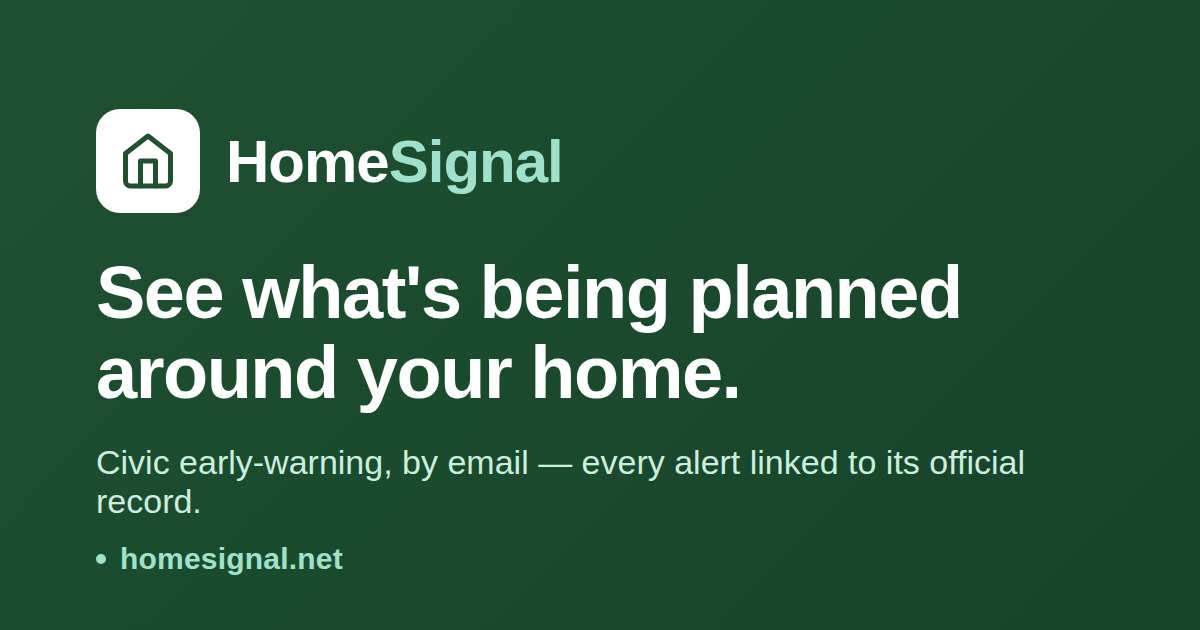
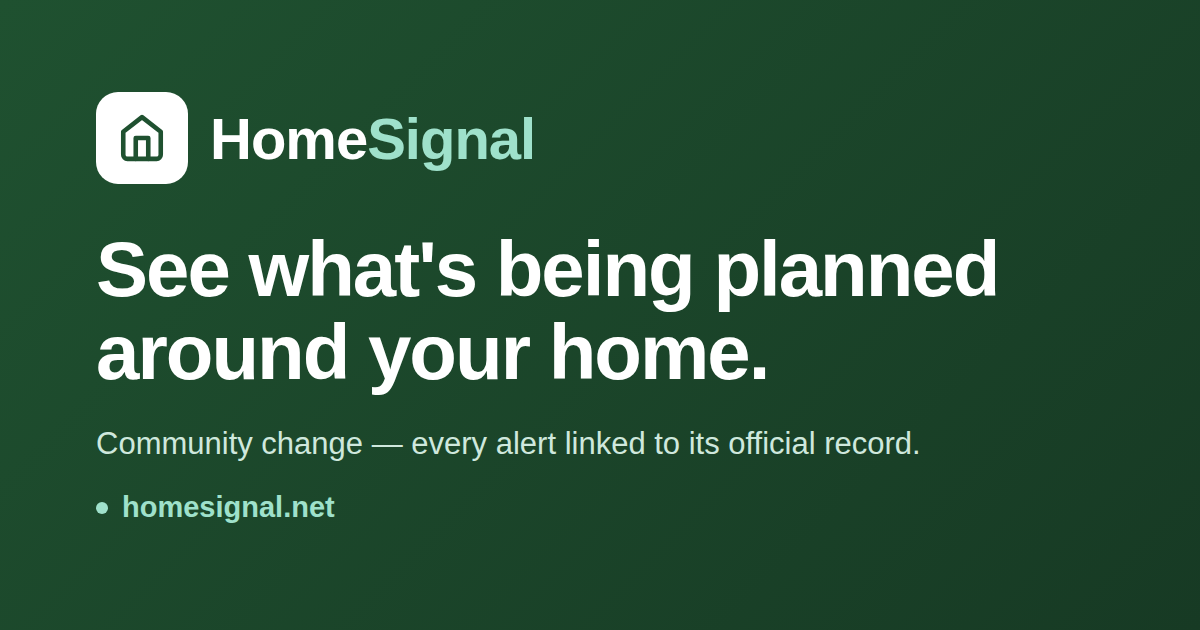
Rebrand tagline: "Civic early-warning" -> "Community change" (#110)
Replaces the tagline everywhere it appears on the site: footer taglines
(all pages incl. the legacy box-elder / eagle-mountain launch pages),
the index hero eyebrow, and all <meta>/OG/Twitter titles + descriptions
(index, 404, terms). Also regenerates og-default.png, which had the old
tagline baked in, with the new wording.

Claude-Session: https://claude.ai/code/session_01WuSSfAkptUE3pUuq5PX332

diff --git a/404.html b/404.html
@@ -5,20 +5,20 @@
 <meta name="viewport" content="width=device-width, initial-scale=1.0">
 <meta http-equiv="Content-Security-Policy" content="default-src 'self'; base-uri 'self'; object-src 'none'; img-src 'self' data:; font-src 'self'; style-src 'self' 'unsafe-inline'; script-src 'self' 'unsafe-inline'; form-action 'self'">
 <title>HomeSignal — Page not found</title>
-<meta name="description" content="The page you were looking for isn't here. Return to HomeSignal — civic early-warning, by email.">
+<meta name="description" content="The page you were looking for isn't here. Return to HomeSignal — community change.">
 <link rel="icon" href="/favicon.svg" type="image/svg+xml">
 <meta name="robots" content="noindex">
 <meta property="og:type" content="website">
 <meta property="og:url" content="https://homesignal.net/404.html">
 <meta property="og:title" content="HomeSignal — Page not found">
-<meta property="og:description" content="The page you were looking for isn't here. Return to HomeSignal — civic early-warning, by email.">
+<meta property="og:description" content="The page you were looking for isn't here. Return to HomeSignal — community change.">
 <meta name="twitter:card" content="summary_large_image">
 <meta property="og:image" content="https://homesignal.net/og-default.png">
 <meta property="og:image:width" content="1200">
 <meta property="og:image:height" content="630">
 <meta name="twitter:image" content="https://homesignal.net/og-default.png">
 <meta name="twitter:title" content="HomeSignal — Page not found">
-<meta name="twitter:description" content="The page you were looking for isn't here. Return to HomeSignal — civic early-warning, by email.">
+<meta name="twitter:description" content="The page you were looking for isn't here. Return to HomeSignal — community change.">
 <link rel="canonical" href="https://homesignal.net/404.html">
 <style>
 :root{
@@ -114,7 +114,7 @@ footer{max-width:1200px;width:100%;margin:0 auto;padding:32px 24px;border-top:0.
       <div class="logo-icon" style="width:28px;height:28px;"><svg viewBox="0 0 24 24" aria-hidden="true" style="width:15px;height:15px;"><path d="M3 9l9-7 9 7v11a2 2 0 0 1-2 2H5a2 2 0 0 1-2-2z"/><polyline points="9,22 9,12 15,12 15,22"/></svg></div>
       <div class="logo-text" style="font-size:14px;">Home<span>Signal</span></div>
     </a>
-    <div class="footer-tagline">Civic early-warning, by email.</div>
+    <div class="footer-tagline">Community change.</div>
     <div class="footer-tagline" style="margin-top:6px">© 2026 HomeSignal, Inc. · Neutral · sourced · non-partisan</div>
     <div class="footer-tagline" style="margin-top:6px">Follow HomeSignal: <a href="https://bsky.app/profile/homesignal-tracker.bsky.social" aria-label="Bluesky" style="display:inline-flex;width:24px;height:24px;border-radius:50%;background:#1185fe;align-items:center;justify-content:center;vertical-align:middle;margin-left:6px"><svg viewBox="0 0 24 24" width="14" height="14" fill="#fff" aria-hidden="true"><path d="M5.5 4.3c2.4 1.8 5 5.5 6 7.5 1-2 3.6-5.7 6-7.5 1.7-1.3 4.5-2.3 4.5.9 0 .6-.4 5.2-.6 6-.7 2.6-3.3 3.2-5.7 2.8 4.1.7 5.2 3 2.9 5.3-4.3 4.4-6.2-1.1-6.7-2.5-.1-.3-.2-.5-.2-.3 0-.2-.1.1-.2 2.5-.5 1.4-2.4 6.9-6.7 2.5-2.3-2.3-1.2-4.6 2.9-5.3-2.4.4-5-.2-5.7-2.8C1.4 10.4 1 5.8 1 5.2c0-3.2 2.8-2.2 4.5-.9z"/></svg></a><a href="https://www.reddit.com/user/HomeSignalnet" aria-label="Reddit" style="display:inline-flex;width:24px;height:24px;border-radius:50%;background:#ff4500;align-items:center;justify-content:center;vertical-align:middle;margin-left:6px"><svg viewBox="0 0 24 24" width="14" height="14" fill="#fff" aria-hidden="true"><path d="M22 12a2.04 2.04 0 0 0-3.46-1.46 10 10 0 0 0-5.27-1.67l.9-4.23 2.94.62a1.5 1.5 0 1 0 .16-1l-3.28-.7a.5.5 0 0 0-.59.38l-1 4.7a10 10 0 0 0-5.34 1.66 2.04 2.04 0 1 0-2.2 3.36c-.03.21-.05.43-.05.65 0 3.31 3.58 6 8 6s8-2.69 8-6c0-.22-.02-.44-.05-.65A2.04 2.04 0 0 0 22 12zM7 13.5a1.5 1.5 0 1 1 3 0 1.5 1.5 0 0 1-3 0zm8.1 4.2c-.86.86-2.6.93-3.1.93-.5 0-2.24-.07-3.1-.93a.34.34 0 0 1 .48-.48c.54.54 1.7.73 2.62.73.92 0 2.08-.19 2.62-.73a.34.34 0 0 1 .48.48zM15.5 15a1.5 1.5 0 1 1 0-3 1.5 1.5 0 0 1 0 3z"/></svg></a></div>
   </div>

diff --git a/index.html b/index.html
@@ -9,14 +9,14 @@
 <link rel="icon" href="favicon.svg" type="image/svg+xml">
 <meta property="og:type" content="website">
 <meta property="og:url" content="https://homesignal.net/">
-<meta property="og:title" content="HomeSignal — Civic early-warning, by email">
+<meta property="og:title" content="HomeSignal — Community change">
 <meta property="og:description" content="HomeSignal turns hearings, permits, public records, and local news into one daily email — so homeowners hear what's coming in time to speak up.">
 <meta name="twitter:card" content="summary_large_image">
 <meta property="og:image" content="https://homesignal.net/og-default.png">
 <meta property="og:image:width" content="1200">
 <meta property="og:image:height" content="630">
 <meta name="twitter:image" content="https://homesignal.net/og-default.png">
-<meta name="twitter:title" content="HomeSignal — Civic early-warning, by email">
+<meta name="twitter:title" content="HomeSignal — Community change">
 <meta name="twitter:description" content="HomeSignal turns hearings, permits, public records, and local news into one daily email — so homeowners hear what's coming in time to speak up.">
 <link rel="canonical" href="https://homesignal.net/">
 <style>
@@ -137,7 +137,7 @@ footer .foot-links a:hover{color:var(--tx-primary)}
 
 <section class="wrap hero">
   <div>
-    <span class="eyebrow"><svg class="ic" viewBox="0 0 24 24" aria-hidden="true"><rect x="3" y="5" width="18" height="14" rx="2"/><path d="M3 7l9 6 9-6"/></svg>Civic early-warning, by email</span>
+    <span class="eyebrow"><svg class="ic" viewBox="0 0 24 24" aria-hidden="true"><rect x="3" y="5" width="18" height="14" rx="2"/><path d="M3 7l9 6 9-6"/></svg>Community change</span>
     <h1>See what's being planned around your home — before the decisions are made.</h1>
     <p style="font-size:17px;color:var(--tx-secondary);margin:0 0 26px;max-width:500px">HomeSignal turns hearings, permits, public records, and local news into one daily email, so homeowners hear what's coming in time to speak up.</p>
     <div data-zip-form>
@@ -279,7 +279,7 @@ footer .foot-links a:hover{color:var(--tx-primary)}
         <div class="logo-icon" style="width:28px;height:28px"><svg viewBox="0 0 24 24" aria-hidden="true" style="width:15px;height:15px"><path d="M3 9l9-7 9 7v11a2 2 0 01-2 2H5a2 2 0 01-2-2z"/><polyline points="9,22 9,12 15,12 15,22"/></svg></div>
         <div class="logo-text" style="font-size:14px">Home<span>Signal</span></div>
       </a>
-      <div class="meta" style="font-size:12.5px;margin-top:6px">Civic early-warning, by email.</div>
+      <div class="meta" style="font-size:12.5px;margin-top:6px">Community change.</div>
       <div class="meta" style="font-size:12.5px;margin-top:4px">© 2026 HomeSignal, Inc. · Neutral · sourced · non-partisan</div>
       <div class="meta" style="font-size:12.5px;margin-top:4px">Follow HomeSignal: <a href="https://bsky.app/profile/homesignal-tracker.bsky.social" aria-label="Bluesky" style="display:inline-flex;width:24px;height:24px;border-radius:50%;background:#1185fe;align-items:center;justify-content:center;vertical-align:middle;margin-left:6px"><svg viewBox="0 0 24 24" width="14" height="14" fill="#fff" aria-hidden="true"><path d="M5.5 4.3c2.4 1.8 5 5.5 6 7.5 1-2 3.6-5.7 6-7.5 1.7-1.3 4.5-2.3 4.5.9 0 .6-.4 5.2-.6 6-.7 2.6-3.3 3.2-5.7 2.8 4.1.7 5.2 3 2.9 5.3-4.3 4.4-6.2-1.1-6.7-2.5-.1-.3-.2-.5-.2-.3 0-.2-.1.1-.2 2.5-.5 1.4-2.4 6.9-6.7 2.5-2.3-2.3-1.2-4.6 2.9-5.3-2.4.4-5-.2-5.7-2.8C1.4 10.4 1 5.8 1 5.2c0-3.2 2.8-2.2 4.5-.9z"/></svg></a><a href="https://www.reddit.com/user/HomeSignalnet" aria-label="Reddit" style="display:inline-flex;width:24px;height:24px;border-radius:50%;background:#ff4500;align-items:center;justify-content:center;vertical-align:middle;margin-left:6px"><svg viewBox="0 0 24 24" width="14" height="14" fill="#fff" aria-hidden="true"><path d="M22 12a2.04 2.04 0 0 0-3.46-1.46 10 10 0 0 0-5.27-1.67l.9-4.23 2.94.62a1.5 1.5 0 1 0 .16-1l-3.28-.7a.5.5 0 0 0-.59.38l-1 4.7a10 10 0 0 0-5.34 1.66 2.04 2.04 0 1 0-2.2 3.36c-.03.21-.05.43-.05.65 0 3.31 3.58 6 8 6s8-2.69 8-6c0-.22-.02-.44-.05-.65A2.04 2.04 0 0 0 22 12zM7 13.5a1.5 1.5 0 1 1 3 0 1.5 1.5 0 0 1-3 0zm8.1 4.2c-.86.86-2.6.93-3.1.93-.5 0-2.24-.07-3.1-.93a.34.34 0 0 1 .48-.48c.54.54 1.7.73 2.62.73.92 0 2.08-.19 2.62-.73a.34.34 0 0 1 .48.48zM15.5 15a1.5 1.5 0 1 1 0-3 1.5 1.5 0 0 1 0 3z"/></svg></a></div>
     </div>

diff --git a/terms.html b/terms.html
@@ -5,19 +5,19 @@
 <meta name="viewport" content="width=device-width, initial-scale=1.0">
 <meta http-equiv="Content-Security-Policy" content="default-src 'self'; base-uri 'self'; object-src 'none'; img-src 'self' data:; font-src 'self'; style-src 'self' 'unsafe-inline'; script-src 'self' 'unsafe-inline' https://cdn.jsdelivr.net; connect-src 'self' https://qwnnmljucajnexpxdgxr.supabase.co wss://qwnnmljucajnexpxdgxr.supabase.co; form-action 'self'">
 <title>HomeSignal — Terms of use</title>
-<meta name="description" content="The terms of use for HomeSignal's civic early-warning email service.">
+<meta name="description" content="The terms of use for HomeSignal's community change email service.">
 <link rel="icon" href="favicon.svg" type="image/svg+xml">
 <meta property="og:type" content="website">
 <meta property="og:url" content="https://homesignal.net/terms.html">
 <meta property="og:title" content="HomeSignal — Terms of use">
-<meta property="og:description" content="The terms of use for HomeSignal's civic early-warning email service.">
+<meta property="og:description" content="The terms of use for HomeSignal's community change email service.">
 <meta name="twitter:card" content="summary_large_image">
 <meta property="og:image" content="https://homesignal.net/og-default.png">
 <meta property="og:image:width" content="1200">
 <meta property="og:image:height" content="630">
 <meta name="twitter:image" content="https://homesignal.net/og-default.png">
 <meta name="twitter:title" content="HomeSignal — Terms of use">
-<meta name="twitter:description" content="The terms of use for HomeSignal's civic early-warning email service.">
+<meta name="twitter:description" content="The terms of use for HomeSignal's community change email service.">
 <link rel="canonical" href="https://homesignal.net/terms.html">
 <style>
 /* ============================================================
@@ -304,7 +304,7 @@ body { background: var(--bg-tertiary); font-size: 15px; }
       <div class="logo-icon" style="width:28px;height:28px;"><svg viewBox="0 0 24 24" style="width:15px;height:15px;"><path d="M3 9l9-7 9 7v11a2 2 0 01-2 2H5a2 2 0 01-2-2z"/><polyline points="9,22 9,12 15,12 15,22"/></svg></div>
       <div class="logo-text" style="font-size:14px;">Home<span>Signal</span></div>
     </a>
-    <div class="footer-tagline">Civic early-warning, by email.</div>
+    <div class="footer-tagline">Community change.</div>
     <div class="footer-tagline" style="margin-top:6px">© 2026 HomeSignal, Inc. · Neutral · sourced · non-partisan</div>
     <div class="footer-tagline" style="margin-top:6px">Follow HomeSignal: <a href="https://bsky.app/profile/homesignal-tracker.bsky.social" aria-label="Bluesky" style="display:inline-flex;width:24px;height:24px;border-radius:50%;background:#1185fe;align-items:center;justify-content:center;vertical-align:middle;margin-left:6px"><svg viewBox="0 0 24 24" width="14" height="14" fill="#fff" aria-hidden="true"><path d="M5.5 4.3c2.4 1.8 5 5.5 6 7.5 1-2 3.6-5.7 6-7.5 1.7-1.3 4.5-2.3 4.5.9 0 .6-.4 5.2-.6 6-.7 2.6-3.3 3.2-5.7 2.8 4.1.7 5.2 3 2.9 5.3-4.3 4.4-6.2-1.1-6.7-2.5-.1-.3-.2-.5-.2-.3 0-.2-.1.1-.2 2.5-.5 1.4-2.4 6.9-6.7 2.5-2.3-2.3-1.2-4.6 2.9-5.3-2.4.4-5-.2-5.7-2.8C1.4 10.4 1 5.8 1 5.2c0-3.2 2.8-2.2 4.5-.9z"/></svg></a><a href="https://www.reddit.com/user/HomeSignalnet" aria-label="Reddit" style="display:inline-flex;width:24px;height:24px;border-radius:50%;background:#ff4500;align-items:center;justify-content:center;vertical-align:middle;margin-left:6px"><svg viewBox="0 0 24 24" width="14" height="14" fill="#fff" aria-hidden="true"><path d="M22 12a2.04 2.04 0 0 0-3.46-1.46 10 10 0 0 0-5.27-1.67l.9-4.23 2.94.62a1.5 1.5 0 1 0 .16-1l-3.28-.7a.5.5 0 0 0-.59.38l-1 4.7a10 10 0 0 0-5.34 1.66 2.04 2.04 0 1 0-2.2 3.36c-.03.21-.05.43-.05.65 0 3.31 3.58 6 8 6s8-2.69 8-6c0-.22-.02-.44-.05-.65A2.04 2.04 0 0 0 22 12zM7 13.5a1.5 1.5 0 1 1 3 0 1.5 1.5 0 0 1-3 0zm8.1 4.2c-.86.86-2.6.93-3.1.93-.5 0-2.24-.07-3.1-.93a.34.34 0 0 1 .48-.48c.54.54 1.7.73 2.62.73.92 0 2.08-.19 2.62-.73a.34.34 0 0 1 .48.48zM15.5 15a1.5 1.5 0 1 1 0-3 1.5 1.5 0 0 1 0 3z"/></svg></a></div>
   </div>

diff --git a/about.html b/about.html
@@ -303,7 +303,7 @@ body { background: var(--bg-tertiary); font-size: 15px; }
       <div class="logo-icon" style="width:28px;height:28px;"><svg viewBox="0 0 24 24" style="width:15px;height:15px;"><path d="M3 9l9-7 9 7v11a2 2 0 01-2 2H5a2 2 0 01-2-2z"/><polyline points="9,22 9,12 15,12 15,22"/></svg></div>
       <div class="logo-text" style="font-size:14px;">Home<span>Signal</span></div>
     </a>
-    <div class="footer-tagline">Civic early-warning, by email.</div>
+    <div class="footer-tagline">Community change.</div>
     <div class="footer-tagline" style="margin-top:6px">© 2026 HomeSignal, Inc. · Neutral · sourced · non-partisan</div>
     <div class="footer-tagline" style="margin-top:6px">Follow HomeSignal: <a href="https://bsky.app/profile/homesignal-tracker.bsky.social" aria-label="Bluesky" style="display:inline-flex;width:24px;height:24px;border-radius:50%;background:#1185fe;align-items:center;justify-content:center;vertical-align:middle;margin-left:6px"><svg viewBox="0 0 24 24" width="14" height="14" fill="#fff" aria-hidden="true"><path d="M5.5 4.3c2.4 1.8 5 5.5 6 7.5 1-2 3.6-5.7 6-7.5 1.7-1.3 4.5-2.3 4.5.9 0 .6-.4 5.2-.6 6-.7 2.6-3.3 3.2-5.7 2.8 4.1.7 5.2 3 2.9 5.3-4.3 4.4-6.2-1.1-6.7-2.5-.1-.3-.2-.5-.2-.3 0-.2-.1.1-.2 2.5-.5 1.4-2.4 6.9-6.7 2.5-2.3-2.3-1.2-4.6 2.9-5.3-2.4.4-5-.2-5.7-2.8C1.4 10.4 1 5.8 1 5.2c0-3.2 2.8-2.2 4.5-.9z"/></svg></a><a href="https://www.reddit.com/user/HomeSignalnet" aria-label="Reddit" style="display:inline-flex;width:24px;height:24px;border-radius:50%;background:#ff4500;align-items:center;justify-content:center;vertical-align:middle;margin-left:6px"><svg viewBox="0 0 24 24" width="14" height="14" fill="#fff" aria-hidden="true"><path d="M22 12a2.04 2.04 0 0 0-3.46-1.46 10 10 0 0 0-5.27-1.67l.9-4.23 2.94.62a1.5 1.5 0 1 0 .16-1l-3.28-.7a.5.5 0 0 0-.59.38l-1 4.7a10 10 0 0 0-5.34 1.66 2.04 2.04 0 1 0-2.2 3.36c-.03.21-.05.43-.05.65 0 3.31 3.58 6 8 6s8-2.69 8-6c0-.22-.02-.44-.05-.65A2.04 2.04 0 0 0 22 12zM7 13.5a1.5 1.5 0 1 1 3 0 1.5 1.5 0 0 1-3 0zm8.1 4.2c-.86.86-2.6.93-3.1.93-.5 0-2.24-.07-3.1-.93a.34.34 0 0 1 .48-.48c.54.54 1.7.73 2.62.73.92 0 2.08-.19 2.62-.73a.34.34 0 0 1 .48.48zM15.5 15a1.5 1.5 0 1 1 0-3 1.5 1.5 0 0 1 0 3z"/></svg></a></div>
   </div>

diff --git a/box-elder.html b/box-elder.html
@@ -587,7 +587,7 @@ h2.be-h2 { font-size: 27px; font-weight: 600; margin: 0; letter-spacing: -0.015e
       <div class="logo-icon" style="width:28px;height:28px;"><svg viewBox="0 0 24 24" style="width:15px;height:15px;"><path d="M3 9l9-7 9 7v11a2 2 0 01-2 2H5a2 2 0 01-2-2z"/><polyline points="9,22 9,12 15,12 15,22"/></svg></div>
       <div class="logo-text" style="font-size:14px;">Home<span>Signal</span></div>
     </a>
-    <div class="footer-tagline">Civic early-warning, by email.</div>
+    <div class="footer-tagline">Community change.</div>
     <div class="footer-tagline" style="margin-top:6px">© 2026 HomeSignal, Inc. · Neutral · sourced · non-partisan</div>
     <div class="footer-tagline" style="margin-top:6px">Follow HomeSignal: <a href="https://bsky.app/profile/homesignal-tracker.bsky.social" aria-label="Bluesky" style="display:inline-flex;width:24px;height:24px;border-radius:50%;background:#1185fe;align-items:center;justify-content:center;vertical-align:middle;margin-left:6px"><svg viewBox="0 0 24 24" width="14" height="14" fill="#fff" aria-hidden="true"><path d="M5.5 4.3c2.4 1.8 5 5.5 6 7.5 1-2 3.6-5.7 6-7.5 1.7-1.3 4.5-2.3 4.5.9 0 .6-.4 5.2-.6 6-.7 2.6-3.3 3.2-5.7 2.8 4.1.7 5.2 3 2.9 5.3-4.3 4.4-6.2-1.1-6.7-2.5-.1-.3-.2-.5-.2-.3 0-.2-.1.1-.2 2.5-.5 1.4-2.4 6.9-6.7 2.5-2.3-2.3-1.2-4.6 2.9-5.3-2.4.4-5-.2-5.7-2.8C1.4 10.4 1 5.8 1 5.2c0-3.2 2.8-2.2 4.5-.9z"/></svg></a><a href="https://www.reddit.com/user/HomeSignalnet" aria-label="Reddit" style="display:inline-flex;width:24px;height:24px;border-radius:50%;background:#ff4500;align-items:center;justify-content:center;vertical-align:middle;margin-left:6px"><svg viewBox="0 0 24 24" width="14" height="14" fill="#fff" aria-hidden="true"><path d="M22 12a2.04 2.04 0 0 0-3.46-1.46 10 10 0 0 0-5.27-1.67l.9-4.23 2.94.62a1.5 1.5 0 1 0 .16-1l-3.28-.7a.5.5 0 0 0-.59.38l-1 4.7a10 10 0 0 0-5.34 1.66 2.04 2.04 0 1 0-2.2 3.36c-.03.21-.05.43-.05.65 0 3.31 3.58 6 8 6s8-2.69 8-6c0-.22-.02-.44-.05-.65A2.04 2.04 0 0 0 22 12zM7 13.5a1.5 1.5 0 1 1 3 0 1.5 1.5 0 0 1-3 0zm8.1 4.2c-.86.86-2.6.93-3.1.93-.5 0-2.24-.07-3.1-.93a.34.34 0 0 1 .48-.48c.54.54 1.7.73 2.62.73.92 0 2.08-.19 2.62-.73a.34.34 0 0 1 .48.48zM15.5 15a1.5 1.5 0 1 1 0-3 1.5 1.5 0 0 1 0 3z"/></svg></a></div>
     <div class="footer-tagline" style="margin-top:6px;max-width:560px">HomeSignal organizes public records into a neutral, sourced feed. We don't give legal advice, predict property values, or make political endorsements.</div>

diff --git a/community.html b/community.html
@@ -443,7 +443,7 @@ body { background: #f3f4f6; font-size: 14px; }
       <div class="logo-icon" style="width:28px;height:28px;"><svg viewBox="0 0 24 24" style="width:15px;height:15px;"><path d="M3 9l9-7 9 7v11a2 2 0 01-2 2H5a2 2 0 01-2-2z"/><polyline points="9,22 9,12 15,12 15,22"/></svg></div>
       <div class="logo-text" style="font-size:14px;">Home<span>Signal</span></div>
     </a>
-    <div class="footer-tagline">Civic early-warning, by email.</div>
+    <div class="footer-tagline">Community change.</div>
     <div class="footer-tagline" style="margin-top:6px">© 2026 HomeSignal, Inc. · Neutral · sourced · non-partisan</div>
     <div class="footer-tagline" style="margin-top:6px">Follow HomeSignal: <a href="https://bsky.app/profile/homesignal-tracker.bsky.social" aria-label="Bluesky" style="display:inline-flex;width:24px;height:24px;border-radius:50%;background:#1185fe;align-items:center;justify-content:center;vertical-align:middle;margin-left:6px"><svg viewBox="0 0 24 24" width="14" height="14" fill="#fff" aria-hidden="true"><path d="M5.5 4.3c2.4 1.8 5 5.5 6 7.5 1-2 3.6-5.7 6-7.5 1.7-1.3 4.5-2.3 4.5.9 0 .6-.4 5.2-.6 6-.7 2.6-3.3 3.2-5.7 2.8 4.1.7 5.2 3 2.9 5.3-4.3 4.4-6.2-1.1-6.7-2.5-.1-.3-.2-.5-.2-.3 0-.2-.1.1-.2 2.5-.5 1.4-2.4 6.9-6.7 2.5-2.3-2.3-1.2-4.6 2.9-5.3-2.4.4-5-.2-5.7-2.8C1.4 10.4 1 5.8 1 5.2c0-3.2 2.8-2.2 4.5-.9z"/></svg></a><a href="https://www.reddit.com/user/HomeSignalnet" aria-label="Reddit" style="display:inline-flex;width:24px;height:24px;border-radius:50%;background:#ff4500;align-items:center;justify-content:center;vertical-align:middle;margin-left:6px"><svg viewBox="0 0 24 24" width="14" height="14" fill="#fff" aria-hidden="true"><path d="M22 12a2.04 2.04 0 0 0-3.46-1.46 10 10 0 0 0-5.27-1.67l.9-4.23 2.94.62a1.5 1.5 0 1 0 .16-1l-3.28-.7a.5.5 0 0 0-.59.38l-1 4.7a10 10 0 0 0-5.34 1.66 2.04 2.04 0 1 0-2.2 3.36c-.03.21-.05.43-.05.65 0 3.31 3.58 6 8 6s8-2.69 8-6c0-.22-.02-.44-.05-.65A2.04 2.04 0 0 0 22 12zM7 13.5a1.5 1.5 0 1 1 3 0 1.5 1.5 0 0 1-3 0zm8.1 4.2c-.86.86-2.6.93-3.1.93-.5 0-2.24-.07-3.1-.93a.34.34 0 0 1 .48-.48c.54.54 1.7.73 2.62.73.92 0 2.08-.19 2.62-.73a.34.34 0 0 1 .48.48zM15.5 15a1.5 1.5 0 1 1 0-3 1.5 1.5 0 0 1 0 3z"/></svg></a></div>
   </div>

diff --git a/contact.html b/contact.html
@@ -318,7 +318,7 @@ body { background: var(--bg-tertiary); font-size: 15px; }
       <div class="logo-icon" style="width:28px;height:28px;"><svg viewBox="0 0 24 24" style="width:15px;height:15px;"><path d="M3 9l9-7 9 7v11a2 2 0 01-2 2H5a2 2 0 01-2-2z"/><polyline points="9,22 9,12 15,12 15,22"/></svg></div>
       <div class="logo-text" style="font-size:14px;">Home<span>Signal</span></div>
     </a>
-    <div class="footer-tagline">Civic early-warning, by email.</div>
+    <div class="footer-tagline">Community change.</div>
     <div class="footer-tagline" style="margin-top:6px">© 2026 HomeSignal, Inc. · Neutral · sourced · non-partisan</div>
     <div class="footer-tagline" style="margin-top:6px">Follow HomeSignal: <a href="https://bsky.app/profile/homesignal-tracker.bsky.social" aria-label="Bluesky" style="display:inline-flex;width:24px;height:24px;border-radius:50%;background:#1185fe;align-items:center;justify-content:center;vertical-align:middle;margin-left:6px"><svg viewBox="0 0 24 24" width="14" height="14" fill="#fff" aria-hidden="true"><path d="M5.5 4.3c2.4 1.8 5 5.5 6 7.5 1-2 3.6-5.7 6-7.5 1.7-1.3 4.5-2.3 4.5.9 0 .6-.4 5.2-.6 6-.7 2.6-3.3 3.2-5.7 2.8 4.1.7 5.2 3 2.9 5.3-4.3 4.4-6.2-1.1-6.7-2.5-.1-.3-.2-.5-.2-.3 0-.2-.1.1-.2 2.5-.5 1.4-2.4 6.9-6.7 2.5-2.3-2.3-1.2-4.6 2.9-5.3-2.4.4-5-.2-5.7-2.8C1.4 10.4 1 5.8 1 5.2c0-3.2 2.8-2.2 4.5-.9z"/></svg></a><a href="https://www.reddit.com/user/HomeSignalnet" aria-label="Reddit" style="display:inline-flex;width:24px;height:24px;border-radius:50%;background:#ff4500;align-items:center;justify-content:center;vertical-align:middle;margin-left:6px"><svg viewBox="0 0 24 24" width="14" height="14" fill="#fff" aria-hidden="true"><path d="M22 12a2.04 2.04 0 0 0-3.46-1.46 10 10 0 0 0-5.27-1.67l.9-4.23 2.94.62a1.5 1.5 0 1 0 .16-1l-3.28-.7a.5.5 0 0 0-.59.38l-1 4.7a10 10 0 0 0-5.34 1.66 2.04 2.04 0 1 0-2.2 3.36c-.03.21-.05.43-.05.65 0 3.31 3.58 6 8 6s8-2.69 8-6c0-.22-.02-.44-.05-.65A2.04 2.04 0 0 0 22 12zM7 13.5a1.5 1.5 0 1 1 3 0 1.5 1.5 0 0 1-3 0zm8.1 4.2c-.86.86-2.6.93-3.1.93-.5 0-2.24-.07-3.1-.93a.34.34 0 0 1 .48-.48c.54.54 1.7.73 2.62.73.92 0 2.08-.19 2.62-.73a.34.34 0 0 1 .48.48zM15.5 15a1.5 1.5 0 1 1 0-3 1.5 1.5 0 0 1 0 3z"/></svg></a></div>
   </div>

diff --git a/dashboard.html b/dashboard.html
@@ -149,7 +149,7 @@ footer { padding: 32px 48px; border-top: 1px solid var(--border); display: flex;
       <div class="logo-icon" style="width:28px;height:28px;"><svg viewBox="0 0 24 24" style="width:15px;height:15px;"><path d="M3 9l9-7 9 7v11a2 2 0 01-2 2H5a2 2 0 01-2-2z"/><polyline points="9,22 9,12 15,12 15,22"/></svg></div>
       <div class="logo-text" style="font-size:14px;">Home<span>Signal</span></div>
     </a>
-    <div class="footer-tagline">Civic early-warning, by email.</div>
+    <div class="footer-tagline">Community change.</div>
     <div class="footer-tagline" style="margin-top:6px">© 2026 HomeSignal, Inc. · Neutral · sourced · non-partisan</div>
     <div class="footer-tagline" style="margin-top:6px">Follow HomeSignal: <a href="https://bsky.app/profile/homesignal-tracker.bsky.social" aria-label="Bluesky" style="display:inline-flex;width:24px;height:24px;border-radius:50%;background:#1185fe;align-items:center;justify-content:center;vertical-align:middle;margin-left:6px"><svg viewBox="0 0 24 24" width="14" height="14" fill="#fff" aria-hidden="true"><path d="M5.5 4.3c2.4 1.8 5 5.5 6 7.5 1-2 3.6-5.7 6-7.5 1.7-1.3 4.5-2.3 4.5.9 0 .6-.4 5.2-.6 6-.7 2.6-3.3 3.2-5.7 2.8 4.1.7 5.2 3 2.9 5.3-4.3 4.4-6.2-1.1-6.7-2.5-.1-.3-.2-.5-.2-.3 0-.2-.1.1-.2 2.5-.5 1.4-2.4 6.9-6.7 2.5-2.3-2.3-1.2-4.6 2.9-5.3-2.4.4-5-.2-5.7-2.8C1.4 10.4 1 5.8 1 5.2c0-3.2 2.8-2.2 4.5-.9z"/></svg></a><a href="https://www.reddit.com/user/HomeSignalnet" aria-label="Reddit" style="display:inline-flex;width:24px;height:24px;border-radius:50%;background:#ff4500;align-items:center;justify-content:center;vertical-align:middle;margin-left:6px"><svg viewBox="0 0 24 24" width="14" height="14" fill="#fff" aria-hidden="true"><path d="M22 12a2.04 2.04 0 0 0-3.46-1.46 10 10 0 0 0-5.27-1.67l.9-4.23 2.94.62a1.5 1.5 0 1 0 .16-1l-3.28-.7a.5.5 0 0 0-.59.38l-1 4.7a10 10 0 0 0-5.34 1.66 2.04 2.04 0 1 0-2.2 3.36c-.03.21-.05.43-.05.65 0 3.31 3.58 6 8 6s8-2.69 8-6c0-.22-.02-.44-.05-.65A2.04 2.04 0 0 0 22 12zM7 13.5a1.5 1.5 0 1 1 3 0 1.5 1.5 0 0 1-3 0zm8.1 4.2c-.86.86-2.6.93-3.1.93-.5 0-2.24-.07-3.1-.93a.34.34 0 0 1 .48-.48c.54.54 1.7.73 2.62.73.92 0 2.08-.19 2.62-.73a.34.34 0 0 1 .48.48zM15.5 15a1.5 1.5 0 1 1 0-3 1.5 1.5 0 0 1 0 3z"/></svg></a></div>
   </div>

diff --git a/eagle-mountain.html b/eagle-mountain.html
@@ -587,7 +587,7 @@ h2.be-h2 { font-size: 27px; font-weight: 600; margin: 0; letter-spacing: -0.015e
       <div class="logo-icon" style="width:28px;height:28px;"><svg viewBox="0 0 24 24" style="width:15px;height:15px;"><path d="M3 9l9-7 9 7v11a2 2 0 01-2 2H5a2 2 0 01-2-2z"/><polyline points="9,22 9,12 15,12 15,22"/></svg></div>
       <div class="logo-text" style="font-size:14px;">Home<span>Signal</span></div>
     </a>
-    <div class="footer-tagline">Civic early-warning, by email.</div>
+    <div class="footer-tagline">Community change.</div>
     <div class="footer-tagline" style="margin-top:6px">© 2026 HomeSignal, Inc. · Neutral · sourced · non-partisan</div>
     <div class="footer-tagline" style="margin-top:6px">Follow HomeSignal: <a href="https://bsky.app/profile/homesignal-tracker.bsky.social" aria-label="Bluesky" style="display:inline-flex;width:24px;height:24px;border-radius:50%;background:#1185fe;align-items:center;justify-content:center;vertical-align:middle;margin-left:6px"><svg viewBox="0 0 24 24" width="14" height="14" fill="#fff" aria-hidden="true"><path d="M5.5 4.3c2.4 1.8 5 5.5 6 7.5 1-2 3.6-5.7 6-7.5 1.7-1.3 4.5-2.3 4.5.9 0 .6-.4 5.2-.6 6-.7 2.6-3.3 3.2-5.7 2.8 4.1.7 5.2 3 2.9 5.3-4.3 4.4-6.2-1.1-6.7-2.5-.1-.3-.2-.5-.2-.3 0-.2-.1.1-.2 2.5-.5 1.4-2.4 6.9-6.7 2.5-2.3-2.3-1.2-4.6 2.9-5.3-2.4.4-5-.2-5.7-2.8C1.4 10.4 1 5.8 1 5.2c0-3.2 2.8-2.2 4.5-.9z"/></svg></a><a href="https://www.reddit.com/user/HomeSignalnet" aria-label="Reddit" style="display:inline-flex;width:24px;height:24px;border-radius:50%;background:#ff4500;align-items:center;justify-content:center;vertical-align:middle;margin-left:6px"><svg viewBox="0 0 24 24" width="14" height="14" fill="#fff" aria-hidden="true"><path d="M22 12a2.04 2.04 0 0 0-3.46-1.46 10 10 0 0 0-5.27-1.67l.9-4.23 2.94.62a1.5 1.5 0 1 0 .16-1l-3.28-.7a.5.5 0 0 0-.59.38l-1 4.7a10 10 0 0 0-5.34 1.66 2.04 2.04 0 1 0-2.2 3.36c-.03.21-.05.43-.05.65 0 3.31 3.58 6 8 6s8-2.69 8-6c0-.22-.02-.44-.05-.65A2.04 2.04 0 0 0 22 12zM7 13.5a1.5 1.5 0 1 1 3 0 1.5 1.5 0 0 1-3 0zm8.1 4.2c-.86.86-2.6.93-3.1.93-.5 0-2.24-.07-3.1-.93a.34.34 0 0 1 .48-.48c.54.54 1.7.73 2.62.73.92 0 2.08-.19 2.62-.73a.34.34 0 0 1 .48.48zM15.5 15a1.5 1.5 0 1 1 0-3 1.5 1.5 0 0 1 0 3z"/></svg></a></div>
     <div class="footer-tagline" style="margin-top:6px;max-width:560px">HomeSignal organizes public records into a neutral, sourced feed. We don't give legal advice, predict property values, or make political endorsements.</div>

diff --git a/how-it-works.html b/how-it-works.html
@@ -303,7 +303,7 @@ body { background: var(--bg-tertiary); font-size: 15px; }
       <div class="logo-icon" style="width:28px;height:28px;"><svg viewBox="0 0 24 24" style="width:15px;height:15px;"><path d="M3 9l9-7 9 7v11a2 2 0 01-2 2H5a2 2 0 01-2-2z"/><polyline points="9,22 9,12 15,12 15,22"/></svg></div>
       <div class="logo-text" style="font-size:14px;">Home<span>Signal</span></div>
     </a>
-    <div class="footer-tagline">Civic early-warning, by email.</div>
+    <div class="footer-tagline">Community change.</div>
     <div class="footer-tagline" style="margin-top:6px">© 2026 HomeSignal, Inc. · Neutral · sourced · non-partisan</div>
     <div class="footer-tagline" style="margin-top:6px">Follow HomeSignal: <a href="https://bsky.app/profile/homesignal-tracker.bsky.social" aria-label="Bluesky" style="display:inline-flex;width:24px;height:24px;border-radius:50%;background:#1185fe;align-items:center;justify-content:center;vertical-align:middle;margin-left:6px"><svg viewBox="0 0 24 24" width="14" height="14" fill="#fff" aria-hidden="true"><path d="M5.5 4.3c2.4 1.8 5 5.5 6 7.5 1-2 3.6-5.7 6-7.5 1.7-1.3 4.5-2.3 4.5.9 0 .6-.4 5.2-.6 6-.7 2.6-3.3 3.2-5.7 2.8 4.1.7 5.2 3 2.9 5.3-4.3 4.4-6.2-1.1-6.7-2.5-.1-.3-.2-.5-.2-.3 0-.2-.1.1-.2 2.5-.5 1.4-2.4 6.9-6.7 2.5-2.3-2.3-1.2-4.6 2.9-5.3-2.4.4-5-.2-5.7-2.8C1.4 10.4 1 5.8 1 5.2c0-3.2 2.8-2.2 4.5-.9z"/></svg></a><a href="https://www.reddit.com/user/HomeSignalnet" aria-label="Reddit" style="display:inline-flex;width:24px;height:24px;border-radius:50%;background:#ff4500;align-items:center;justify-content:center;vertical-align:middle;margin-left:6px"><svg viewBox="0 0 24 24" width="14" height="14" fill="#fff" aria-hidden="true"><path d="M22 12a2.04 2.04 0 0 0-3.46-1.46 10 10 0 0 0-5.27-1.67l.9-4.23 2.94.62a1.5 1.5 0 1 0 .16-1l-3.28-.7a.5.5 0 0 0-.59.38l-1 4.7a10 10 0 0 0-5.34 1.66 2.04 2.04 0 1 0-2.2 3.36c-.03.21-.05.43-.05.65 0 3.31 3.58 6 8 6s8-2.69 8-6c0-.22-.02-.44-.05-.65A2.04 2.04 0 0 0 22 12zM7 13.5a1.5 1.5 0 1 1 3 0 1.5 1.5 0 0 1-3 0zm8.1 4.2c-.86.86-2.6.93-3.1.93-.5 0-2.24-.07-3.1-.93a.34.34 0 0 1 .48-.48c.54.54 1.7.73 2.62.73.92 0 2.08-.19 2.62-.73a.34.34 0 0 1 .48.48zM15.5 15a1.5 1.5 0 1 1 0-3 1.5 1.5 0 0 1 0 3z"/></svg></a></div>
   </div>

diff --git a/privacy.html b/privacy.html
@@ -308,7 +308,7 @@ body { background: var(--bg-tertiary); font-size: 15px; }
       <div class="logo-icon" style="width:28px;height:28px;"><svg viewBox="0 0 24 24" style="width:15px;height:15px;"><path d="M3 9l9-7 9 7v11a2 2 0 01-2 2H5a2 2 0 01-2-2z"/><polyline points="9,22 9,12 15,12 15,22"/></svg></div>
       <div class="logo-text" style="font-size:14px;">Home<span>Signal</span></div>
     </a>
-    <div class="footer-tagline">Civic early-warning, by email.</div>
+    <div class="footer-tagline">Community change.</div>
     <div class="footer-tagline" style="margin-top:6px">© 2026 HomeSignal, Inc. · Neutral · sourced · non-partisan</div>
     <div class="footer-tagline" style="margin-top:6px">Follow HomeSignal: <a href="https://bsky.app/profile/homesignal-tracker.bsky.social" aria-label="Bluesky" style="display:inline-flex;width:24px;height:24px;border-radius:50%;background:#1185fe;align-items:center;justify-content:center;vertical-align:middle;margin-left:6px"><svg viewBox="0 0 24 24" width="14" height="14" fill="#fff" aria-hidden="true"><path d="M5.5 4.3c2.4 1.8 5 5.5 6 7.5 1-2 3.6-5.7 6-7.5 1.7-1.3 4.5-2.3 4.5.9 0 .6-.4 5.2-.6 6-.7 2.6-3.3 3.2-5.7 2.8 4.1.7 5.2 3 2.9 5.3-4.3 4.4-6.2-1.1-6.7-2.5-.1-.3-.2-.5-.2-.3 0-.2-.1.1-.2 2.5-.5 1.4-2.4 6.9-6.7 2.5-2.3-2.3-1.2-4.6 2.9-5.3-2.4.4-5-.2-5.7-2.8C1.4 10.4 1 5.8 1 5.2c0-3.2 2.8-2.2 4.5-.9z"/></svg></a><a href="https://www.reddit.com/user/HomeSignalnet" aria-label="Reddit" style="display:inline-flex;width:24px;height:24px;border-radius:50%;background:#ff4500;align-items:center;justify-content:center;vertical-align:middle;margin-left:6px"><svg viewBox="0 0 24 24" width="14" height="14" fill="#fff" aria-hidden="true"><path d="M22 12a2.04 2.04 0 0 0-3.46-1.46 10 10 0 0 0-5.27-1.67l.9-4.23 2.94.62a1.5 1.5 0 1 0 .16-1l-3.28-.7a.5.5 0 0 0-.59.38l-1 4.7a10 10 0 0 0-5.34 1.66 2.04 2.04 0 1 0-2.2 3.36c-.03.21-.05.43-.05.65 0 3.31 3.58 6 8 6s8-2.69 8-6c0-.22-.02-.44-.05-.65A2.04 2.04 0 0 0 22 12zM7 13.5a1.5 1.5 0 1 1 3 0 1.5 1.5 0 0 1-3 0zm8.1 4.2c-.86.86-2.6.93-3.1.93-.5 0-2.24-.07-3.1-.93a.34.34 0 0 1 .48-.48c.54.54 1.7.73 2.62.73.92 0 2.08-.19 2.62-.73a.34.34 0 0 1 .48.48zM15.5 15a1.5 1.5 0 1 1 0-3 1.5 1.5 0 0 1 0 3z"/></svg></a></div>
   </div>